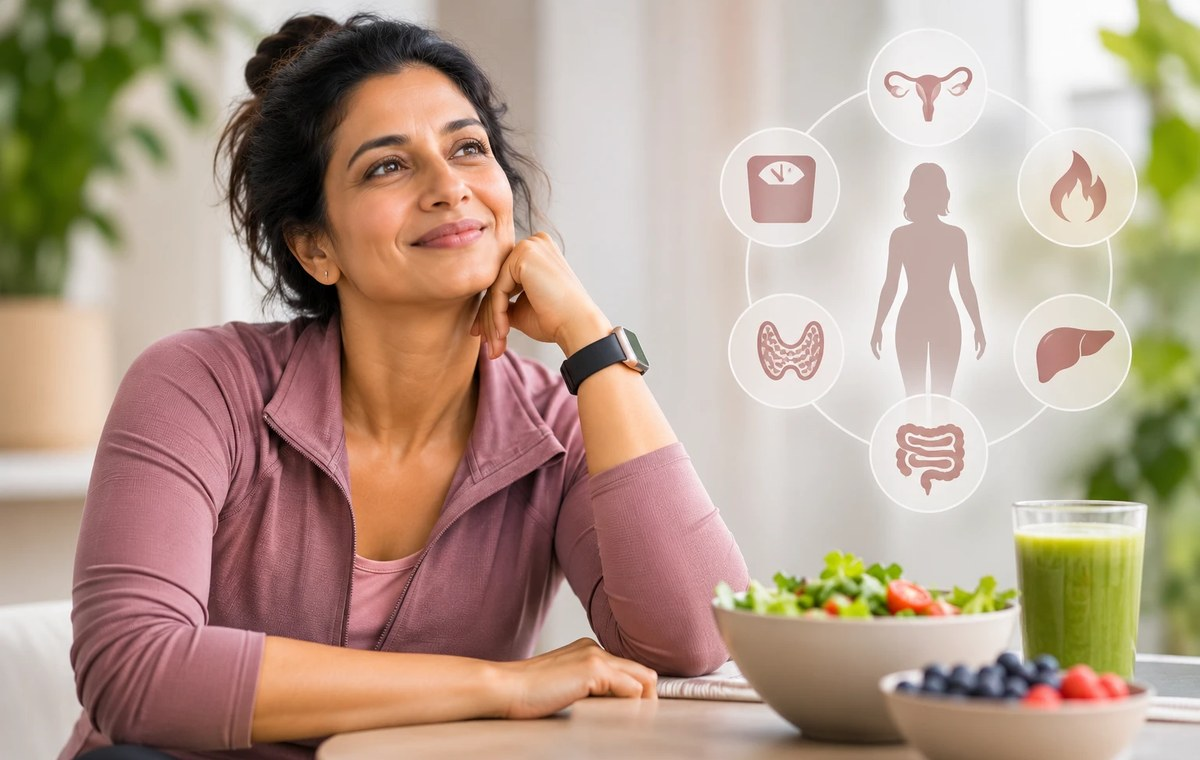
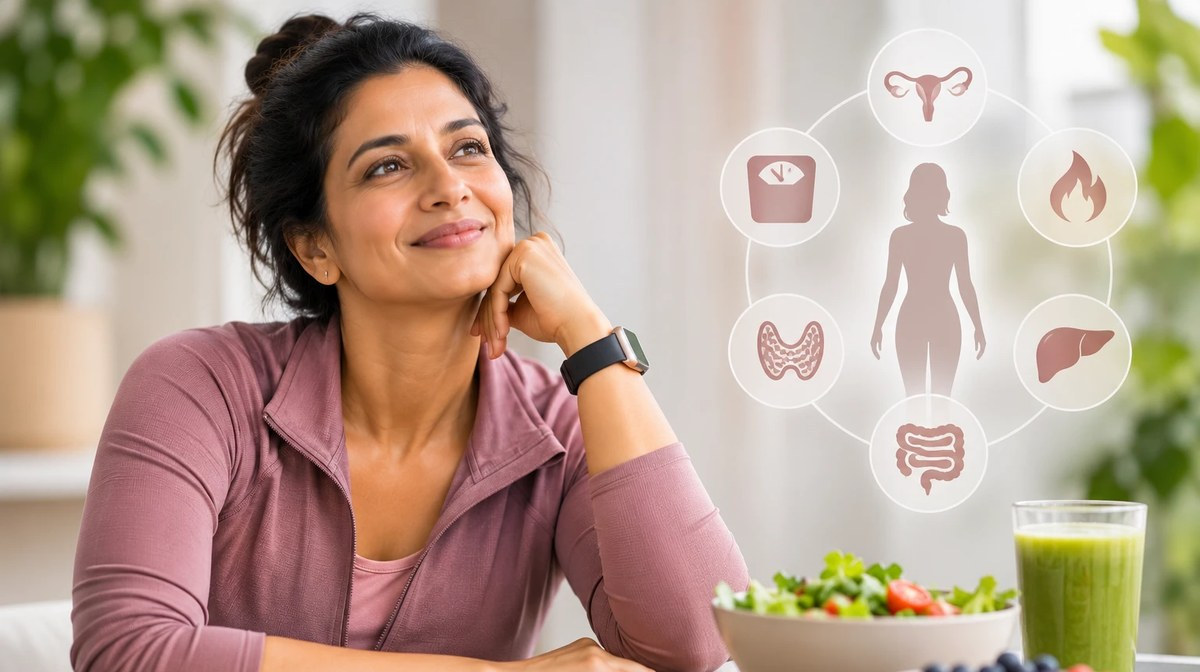
Polish pass over the whole site
Service rows on the home page. The audience tag was stranded at the far right
with the link, a column away from the name it labels; it now sits over the
name, the link keeps the right-hand end to itself with an arrow that moves on
hover, and the whole row lights sand under the cursor. The thumbnail goes from
250x140 to 300x168, which is the same crop 20 per cent larger.

service-metabolic.jpg and service-longevity.jpg were still at the old arch
ratio and lost 11 and 25 per cent of their height in that box, which took the
top of a head with it. Both are recropped to 1.786:1, so all three photographs
now fit the row and the page lead whole, and every service page's lead is the
same height.

The hero portrait filled the entire first screen on a phone, because the
container is auto-height there and the image's height:100% never resolved - it
fell back to its intrinsic portrait shape. With an explicit height the
headline, the intro and the booking button all land above the fold.

Also: fee cards no longer stretch a short card to match a tall neighbour, one
of which was carrying 360px of empty white, and they lift on hover; the
home page's intro band is white, since it and the pillars below made a
2,000px run of sand straight after the hero; and the sign-up band is sand, so
it reads as its own invitation between the white above and the green footer.

diff --git a/src/index.css b/src/index.css
@@ -298,7 +298,9 @@ details p{padding:0 0 24px;max-width:72ch}
 .notice p:last-child{margin-bottom:0}
 
 /* mailing */
-.mail{background:#fff;border-top:1px solid var(--line);padding:72px 0}
+/* sand, so the sign-up reads as its own invitation between the white section
+   above it and the green footer below, rather than as more of the same page */
+.mail{background:var(--sand);border-top:1px solid var(--line);padding:72px 0}
 .mail .wrap{display:grid;grid-template-columns:1fr 1fr;gap:48px;align-items:center}
 .mail h3{font-size:28px;margin-bottom:10px}
 .mail form{display:grid;grid-template-columns:1fr 1fr auto;gap:12px}
@@ -341,7 +343,11 @@ footer a:hover{color:#fff}
   .mobile-menu{max-height:calc(100dvh - 74px);overflow-y:auto;overscroll-behavior:contain}
   .hero-grid{grid-template-columns:1fr}
   .hero-copy{padding:72px 24px 56px}
-  .hero-photo{min-height:420px;order:-1}
+  /* An explicit height, not a minimum: the container is auto-height here, so
+     the image's own height:100% never resolved and it took its intrinsic
+     portrait shape instead, filling the whole first screen and pushing the
+     headline and the booking button below the fold. */
+  .hero-photo{height:420px;order:-1}
   .hero-photo::after{background:linear-gradient(180deg,rgba(31,61,51,.25),rgba(31,61,51,0) 40%)}
   .six,.cgrid,.appts,.tiers,.why{grid-template-columns:repeat(2,minmax(0,1fr))}
   .steps5{grid-template-columns:repeat(2,minmax(0,1fr))}
@@ -372,7 +378,7 @@ footer a:hover{color:#fff}
   .hero-copy{padding:48px 24px 44px}
   .hero h1{font-size:clamp(27px,7.4vw,34px);margin-bottom:18px}
   .hero-intro{font-size:16px;margin-bottom:26px}
-  .hero-photo{min-height:330px}
+  .hero-photo{height:min(44vh,330px)}
   .hero-actions{margin-bottom:28px}
   .hero-actions .btn{width:100%}
   .trust{gap:12px 20px}
@@ -913,20 +919,28 @@ summary:hover .ic{border-color:var(--plum);color:var(--plum)}
    one system, two jobs. Three rows instead: photograph, service, way in. The
    rhythm is what separates them, since nothing else on the page is laid out
    this way, and each service gets room for a full sentence. */
-.svc article{display:flex;gap:34px;align-items:center;padding:26px 0;
-  border-top:1px solid var(--line)}
+.svc article{display:flex;gap:36px;align-items:center;padding:28px 0;
+  border-top:1px solid var(--line);position:relative}
 .svc article:last-child{border-bottom:1px solid var(--line)}
-.svc-img{width:250px;height:140px;flex:none;overflow:hidden;
+/* The hover tint bleeds past the text column so the row reads as one target,
+   while the hairlines stay ruled to the content edges. It is a pseudo-element
+   rather than padding on the row, which would shift every line sideways. */
+.svc article::before{content:"";position:absolute;inset:1px -24px 0;
+  border-radius:var(--r-img);background:var(--sand);
+  opacity:0;transition:opacity .4s ease}
+.svc-img,.svc-body,.svc-meta{position:relative}
+.svc-img{width:300px;height:168px;flex:none;overflow:hidden;
   border-radius:var(--r-img);background:var(--sand-deep)}
 .svc-img img{width:100%;height:100%;object-fit:cover;display:block;
   transition:transform .7s cubic-bezier(.22,.61,.36,1)}
 .svc-body{flex-grow:1;min-width:0}
-.svc h3{font-size:24px;line-height:1.2;margin-bottom:8px}
-.svc p{font-size:15.5px;color:var(--muted);max-width:62ch}
-.svc-meta{flex:none;display:flex;flex-direction:column;align-items:flex-end;gap:9px}
+.svc h3{font-size:25px;line-height:1.2;margin-bottom:9px}
+.svc-body>p{font-size:15.5px;color:var(--muted);max-width:60ch}
 .svc-who{font-size:11.5px;letter-spacing:.09em;text-transform:uppercase;
-  color:var(--terracotta-deep)}
-.svc-meta .link{white-space:nowrap}
+  color:var(--terracotta-deep);margin-bottom:9px}
+.svc-meta{flex:none}
+.svc-meta .link{white-space:nowrap;display:inline-flex;align-items:center;gap:8px}
+.svc-meta .link span{transition:transform .4s cubic-bezier(.22,.61,.36,1)}
 
 /* menopause */
 .menopause{background:var(--sand)}
@@ -959,8 +973,10 @@ summary:hover .ic{border-color:var(--plum);color:var(--plum)}
 
 /* fees */
 .fees{background:var(--sand)}
-.fee-list{display:grid;grid-template-columns:repeat(2,minmax(0,1fr));gap:20px}
-.fee{background:#fff;border:1px solid var(--line);border-radius:var(--r-card);padding:28px 26px}
+.fee-list{display:grid;grid-template-columns:repeat(2,minmax(0,1fr));gap:20px;
+  align-items:start}
+.fee{background:#fff;border:1px solid var(--line);border-radius:var(--r-card);
+  padding:28px 26px;transition:border-color .35s ease,box-shadow .35s ease}
 .fee.pop{background:var(--clay-soft);border-color:var(--clay-tint)}
 .fee-top{display:flex;justify-content:space-between;align-items:baseline;gap:18px}
 .fee h3{font-size:21px;line-height:1.25}
@@ -984,6 +1000,10 @@ summary:hover .ic{border-color:var(--plum);color:var(--plum)}
 
 @media (hover:hover){
   .svc article:hover .svc-img img{transform:scale(1.06)}
+  .svc article:hover::before{opacity:1}
+  .svc article:hover .svc-meta .link span{transform:translateX(5px)}
+  .fee:hover{border-color:var(--clay-tint);
+    box-shadow:0 10px 30px -22px rgba(31,61,51,.45)}
 }
 
 @media (max-width:1024px){
@@ -993,14 +1013,13 @@ summary:hover .ic{border-color:var(--plum);color:var(--plum)}
    columns leave the middle one too narrow for a sentence */
 @media (max-width:900px){
   .svc article{flex-wrap:wrap;gap:20px}
-  .svc-img{width:100%;height:200px}
+  .svc-img{width:100%;height:auto;aspect-ratio:1200/672}
   .svc-body{flex-basis:100%}
-  .svc-meta{flex-direction:row;align-items:center;justify-content:space-between;
-    width:100%;gap:18px}
+  .svc-meta{width:100%}
+  .svc article::before{inset:1px -16px 0}
 }
 @media (max-width:640px){
   .stages,.fee-list,.cols-2,.symptoms,.assess{grid-template-columns:minmax(0,1fr)}
-  .svc-img{height:180px}
   .svc h3{font-size:21px}
   .cols-2{gap:22px}
   .narrow-head{margin-bottom:32px}
@@ -1019,7 +1038,9 @@ summary:hover .ic{border-color:var(--plum);color:var(--plum)}
    Light, and with a different photograph from the hero. The full biography
    block used to run here as well as on her own page: dark green under a dark
    green hero, her portrait twice within a screen of each other. */
-.aboutintro{background:var(--sand);--curtain:var(--sand)}
+/* White, not sand: the pillars below are sand too, and the two together made
+   a 2,000px run of one colour straight after the hero. */
+.aboutintro{background:var(--white);--curtain:var(--white)}
 .aboutintro .wrap{display:grid;grid-template-columns:1.05fr .95fr;gap:60px;align-items:center}
 .aboutintro h2{margin-bottom:20px}
 .aboutintro p{color:var(--muted);margin-bottom:14px;max-width:54ch}
@@ -1044,11 +1065,9 @@ summary:hover .ic{border-color:var(--plum);color:var(--plum)}
    head with it, so the box takes the picture's own proportions instead and the
    width is capped to keep it from becoming a slab. */
 .page-lead .shot{max-width:780px}
-.page-lead .shot img{width:100%;aspect-ratio:var(--lead-ar,16/9);
+.page-lead .shot img{width:100%;aspect-ratio:var(--lead-ar,1200/672);
   object-fit:cover;border-radius:var(--r-card);display:block;
   background:var(--sand-deep)}
-.menopause{--lead-ar:1200/672}
-.metabolic{--lead-ar:1200/760}
 .page-split{display:grid;grid-template-columns:1.3fr .7fr;gap:54px;align-items:start}
 /* lists sit in a narrower column here, so they stop being two across */
 .page-split .cols-2{grid-template-columns:minmax(0,1fr);gap:22px}
@@ -1056,7 +1075,7 @@ summary:hover .ic{border-color:var(--plum);color:var(--plum)}
   border-radius:var(--r-card);display:block;background:var(--sand-deep)}
 /* the longevity page is dark green, so its curtain must be too or it flashes
    sand across the photograph as it opens */
-.longevity{--lead-ar:1400/1050;--curtain:var(--green)}
+.longevity{--curtain:var(--green)}
 
 @media (max-width:900px){
   .page-split{grid-template-columns:minmax(0,1fr);gap:34px}

diff --git a/dist/index.html b/dist/index.html
@@ -6,10 +6,10 @@
     <meta name="viewport" content="width=device-width, initial-scale=1" />
     <title>Kaya Reset Clinic | Metabolic Health, Menopause Support &amp; Longevity | Dr Sarika Gorantyal</title>
     <meta name="description" content="Doctor-led care for metabolic health, weight, perimenopause and menopause support, and longevity with Dr Sarika Gorantyal, Lifestyle Medicine &amp; Longevity Doctor. Virtual and face-to-face appointments across the UK." />
-    <script type="module" crossorigin src="/assets/main-BSlaHpbt.js"></script>
-    <link rel="modulepreload" crossorigin href="/assets/index-DkONQJHe.js">
-    <link rel="modulepreload" crossorigin href="/assets/Discovery-CoL9OKqU.js">
-    <link rel="stylesheet" crossorigin href="/assets/index-6tVHWFSa.css">
+    <script type="module" crossorigin src="/assets/main-D5sMulsb.js"></script>
+    <link rel="modulepreload" crossorigin href="/assets/index-i8x1IJBl.js">
+    <link rel="modulepreload" crossorigin href="/assets/Discovery-C6xYYxAo.js">
+    <link rel="stylesheet" crossorigin href="/assets/index-rOn07P7a.css">
   </head>
   <body>
     <div id="root"></div>

diff --git a/src/components/Services.jsx b/src/components/Services.jsx
@@ -26,14 +26,16 @@ export default function Services() {
                 <Img src={s.image} alt="" />
               </div>
               <div className="svc-body">
+                {/* who it is for reads as a label on the service, so it sits
+                    over the name rather than stranded at the far right */}
+                <p className="svc-who">{s.who}</p>
                 <h3>{s.name}</h3>
                 <p>{s.body}</p>
               </div>
-              {/* who it is for, and the way in, held together at the end of the
-                  row where the eye finishes rather than buried in the copy */}
               <div className="svc-meta">
-                <p className="svc-who">{s.who}</p>
-                <a className="link" href={s.href}>Learn more ›</a>
+                <a className="link" href={s.href}>
+                  Learn more <span aria-hidden="true">→</span>
+                </a>
               </div>
             </article>
           ))}

diff --git a/public/images/README.md b/public/images/README.md
@@ -6,11 +6,12 @@
 | service-metabolic.jpg | Metabolic health in midlife women | client-supplied 3 Nov 2026 |
 | service-longevity.jpg | Longevity care | Pexels 19070023, cropped from the bottom of the frame |
 
-The cards are rows now, not arches: the image box is 250x140 on a desktop,
-1.786:1. service-menopause.jpg is cropped to exactly that, so nothing of it is
-lost to object-fit. The other two were cropped to the arch's 363:230 and are
-trimmed a little at top and bottom here; worth recropping if either starts to
-look badly framed.
+All three are 1.786:1, which is the shape of the row thumbnail and of the lead
+image on the matching service page, so neither crops them. The last two were
+still at the old arch ratio and were losing 11% and 25% of their height in the
+row - enough to cut the top of a head - so they were recropped: the metabolic
+one from the top edge, where her head is, and the longevity one from the bottom,
+where the couple walks. Keep anything added here at 1.786:1.
 
 As with the pillars, nobody in these should read as a patient.
 
